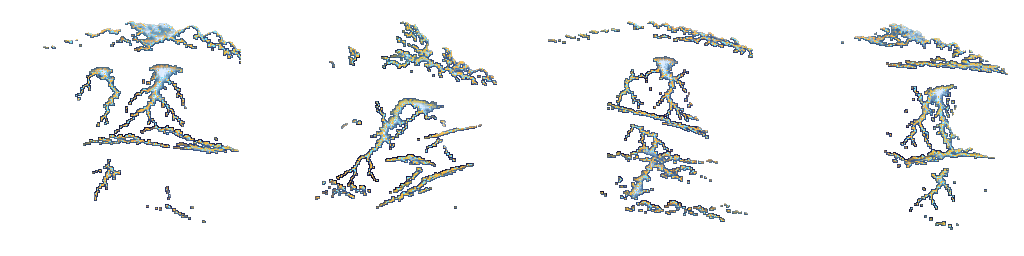
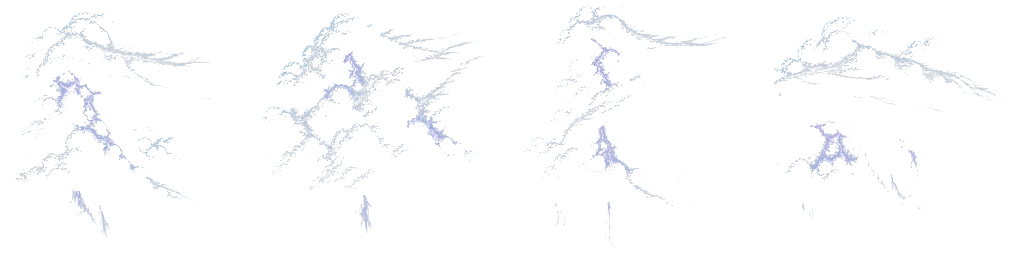
Storm landmarks: the turbine raft is repainted with bare hubs and three painted rotors that spin (about 100 deg/s, wind-swelled); the relay dish is a separate painted dish that turns on its mast (72 deg/s, |cos| foreshortening); tower lightning layer rebuilt from the new tower art; StormLifeTest cov

diff --git a/Pause/Assets/Scripts/Worlds/Backdrop/StormLife.cs b/Pause/Assets/Scripts/Worlds/Backdrop/StormLife.cs
@@ -20,8 +20,17 @@ public static class StormLifeTuning
     public const int Rotors = 3;
     // The three fans of "turbine_raft_00", left to right: hub centre on the 256 cell (px from the top-left) and speed in deg/s
     // (negative = clockwise on screen). Real turbines are slow; this is a readable lazy spin.
-    public static readonly Vector2[] FanHubs = { new Vector2(99.5f, 94.5f), new Vector2(150.5f, 120.5f), new Vector2(206.5f, 80.5f) };
-    public static readonly float[] FanSpeeds = { -52f, 71f, -63f };
+    // 2026-10 restyle: the raft is repainted with BARE hubs and the fans are three painted three-blade rotors; hubs measured on the new raft,
+    // FanScales = each fan's size relative to its 119 px rotor cell. A steady, clearly visible spin (about 0.3 turns a second, wind-swelled);
+    // StormLifeTest keeps every speed inside 15..140 deg/s.
+    public static readonly Vector2[] FanHubs = { new Vector2(148.3f, 49.8f), new Vector2(80.7f, 96.8f), new Vector2(205.6f, 125.6f) };
+    public static readonly float[] FanScales = { .589f, .442f, .442f };
+    public static readonly float[] FanSpeeds = { -100f, 112f, -106f };
+    // The relay dish turns on its mast: the painted dish ("dish_00" in the rotors atlas, pivot = the cell centre) sits on the mast's bare
+    // mount and turns about the vertical axis (a steady DishSpeed deg/s: its width follows |cos|, mirrored past the edge-on moment).
+    public const string DishPiece = "relay_dish_00";
+    public static readonly Vector2 DishMount = new Vector2(123.1f, 9.6f);      // on the 256 cell, px from the top-left
+    public static float DishScale = .7f, DishSpeed = 72f, DishMinWidth = .16f;
     public static float FanSwell = .22f, FanSwellHz = .11f;       // the wind: speed x (1 + swell sin)
     public const string TurbinePiece = "turbine_raft_00";
 
@@ -42,6 +51,8 @@ public sealed class StormLife
     sealed class Extras
     {
         public SpriteRenderer[] rotors;
+        public SpriteRenderer dish;        // the relay dish piece's turning dish
+        public float dishAngle;
         public SpriteRenderer heart;       // towers: the glowing core
         public SpriteRenderer tip;
         public SpriteRenderer bolts;       // towers: the lightning layer over the cloud
@@ -56,7 +67,7 @@ public sealed class StormLife
 
     readonly BackdropPool ground;
     readonly Extras[] extras;
-    readonly Sprite turbine, glowSprite;
+    readonly Sprite turbine, glowSprite, relay, dishArt;
     readonly Dictionary<Sprite, Sprite> boltOf = new Dictionary<Sprite, Sprite>();
     float lastStrike = -9f;
     readonly System.Random rng;
@@ -66,8 +77,10 @@ public sealed class StormLife
     // Preview only (before / after clips): a static frame of the old look, fans parked, no bob, breathing or glow.
     public static bool Still;
 
-    public StormLife(BackdropPool ground, BackdropAtlas rotorArt, Sprite turbine, Sprite glowSprite, int seed, BackdropAtlas landmarkArt = null, BackdropAtlas boltArt = null)
+    public StormLife(BackdropPool ground, BackdropAtlas rotorArt, Sprite turbine, Sprite glowSprite, int seed, BackdropAtlas landmarkArt = null, BackdropAtlas boltArt = null, Sprite relayPiece = null)
     {
+        relay = relayPiece;
+        dishArt = rotorArt != null ? rotorArt.Get("dish_00") : null;
         if (landmarkArt != null && boltArt != null)
             for (int k = 0; k < StormTuning.Towers.Length; k++)
             {
@@ -100,12 +113,24 @@ public sealed class StormLife
                     go.transform.SetParent(p.body, false);
                     var hub = StormLifeTuning.FanHubs[k];
                     go.transform.localPosition = new Vector3((hub.x - 128f) / ppu, (128f - hub.y) / ppu, 0f);
+                    go.transform.localScale = new Vector3(StormLifeTuning.FanScales[k], StormLifeTuning.FanScales[k], 1f);
                     var sr = go.AddComponent<SpriteRenderer>();
                     sr.sprite = rs[k];
                     sr.sortingOrder = order;
                     sr.enabled = false;
                     e.rotors[k] = sr;
                 }
+            }
+            if (dishArt != null && relay != null)
+            {
+                var go = new GameObject("dish");
+                go.transform.SetParent(p.body, false);
+                go.transform.localPosition = new Vector3((StormLifeTuning.DishMount.x - 128f) / ppu, (128f - StormLifeTuning.DishMount.y) / ppu, 0f);
+                var sr = go.AddComponent<SpriteRenderer>();
+                sr.sprite = dishArt;
+                sr.sortingOrder = order;
+                sr.enabled = false;
+                e.dish = sr;
             }
             if (boltOf.Count > 0)
             {
@@ -138,6 +163,9 @@ public sealed class StormLife
     }
 
     // ---- reads for tests ----
+    public bool IsDish(BackdropPiece p) { return relay != null && p.sr.sprite == relay; }
+    public float DishAngle(BackdropPiece p) { return extras[ground.items.IndexOf(p)].dishAngle; }
+    public float DishWidth(BackdropPiece p) { var e = extras[ground.items.IndexOf(p)]; return e.dish != null && e.dish.enabled ? e.dish.transform.localScale.x : 0f; }
     public bool IsFan(BackdropPiece p) { return turbine != null && p.sr.sprite == turbine; }
     public float[] RotorAngles(BackdropPiece p) { return extras[ground.items.IndexOf(p)].angle; }
     public bool RotorsShown(BackdropPiece p)
@@ -195,6 +223,12 @@ public sealed class StormLife
                 e.rotors[r].transform.localRotation = Quaternion.identity;
                 e.rotors[r].color = new Color(1f, 1f, 1f, a);
             }
+        if (e.dish != null)
+        {
+            e.dish.enabled = IsDish(p);
+            e.dish.transform.localScale = new Vector3(StormLifeTuning.DishScale, StormLifeTuning.DishScale, 1f);
+            e.dish.color = new Color(1f, 1f, 1f, a);
+        }
         if (e.heart != null) { e.heart.enabled = false; e.tip.enabled = false; }
         if (e.bolts != null) e.bolts.enabled = false;
     }
@@ -247,6 +281,20 @@ public sealed class StormLife
                     if (e.angle[r] > 3600f || e.angle[r] < -3600f) e.angle[r] %= 360f;
                     sr.transform.localRotation = Quaternion.Euler(0f, 0f, e.angle[r]);
                     sr.color = new Color(1f, 1f, 1f, a);
+                }
+            }
+            if (e.dish != null)
+            {
+                bool relayPiece = IsDish(p);
+                if (e.dish.enabled != relayPiece) e.dish.enabled = relayPiece;
+                if (relayPiece)
+                {
+                    e.dishAngle += StormLifeTuning.DishSpeed * dt;
+                    if (e.dishAngle > 3600f) e.dishAngle %= 360f;
+                    float c = Mathf.Cos(e.dishAngle * Mathf.Deg2Rad);
+                    float w = Mathf.Sign(c == 0f ? 1f : c) * Mathf.Max(StormLifeTuning.DishMinWidth, Mathf.Abs(c));
+                    e.dish.transform.localScale = new Vector3(w * StormLifeTuning.DishScale, StormLifeTuning.DishScale, 1f);
+                    e.dish.color = new Color(1f, 1f, 1f, a);
                 }
             }
             float strike = 0f;

diff --git a/Pause/Assets/Art/Worlds/Storm/backdrop_v4~/restyle_landmarks/src~/build_lm_haz.py b/Pause/Assets/Art/Worlds/Storm/backdrop_v4~/restyle_landmarks/src~/build_lm_haz.py
@@ -67,6 +67,12 @@ def despeckle(c, k=6, keep=.04):
     out = c.copy(); out[..., 3] *= grown
     return out
 
+META = {}
+
+def cell_xy(n, sx, sy):
+    """a point of the source painting (px) -> the landmark cell (px from its top-left)."""
+    m = META[n]; return ((sx - m["x0"]) * m["scale"] + m["ox"], (sy - m["y0"]) * m["scale"] + m["oy"])
+
 def fill_landmarks():
     j = json.load(open(DST / "landmarks.json")); sheet = Image.open(DST / "landmarks.png").convert("RGBA"); H = sheet.height
     by = {s["n"]: s for s in j["sprites"]}
@@ -78,6 +84,8 @@ def fill_landmarks():
         if not (SRC / (sname + ".png")).exists():
             print("missing", sname); continue
         for n, c in zip(names, [despeckle(x) for x in cells(load(sname), 2, 2)]):
+            if n == "turbine_raft_00" and (SRC / "tr_raft.png").exists(): c = despeckle(load("tr_raft"))      # bare hubs: the fans are the rotors atlas
+            if n == "relay_dish_00" and (SRC / "dish_mast.png").exists(): c = despeckle(load("dish_mast"))   # bare mount: the dish is its own turning sprite
             s = by[n]; box = (s["x"], H - s["y"] - s["h"], s["x"] + s["w"], H - s["y"])
             sheet.paste((0, 0, 0, 0), box)
             if n.startswith("spire_"):
@@ -87,7 +95,10 @@ def fill_landmarks():
                 t = c[ty:y1, x0:x1]; im = scaled(t, sc); left = 128 - round((tx - x0) * sc)
                 im = im.crop((max(0, -left), 0, min(im.width, s["w"] - left), im.height))
                 cell = Image.new("RGBA", (s["w"], s["h"])); cell.alpha_composite(im, (max(0, left), 40)); sheet.alpha_composite(cell, box[:2]); continue
-            im = fit(c, s["w"], s["h"]); put_center(sheet, im, s["x"] + s["w"] / 2, H - s["y"] - s["h"] / 2)
+            y0, y1, x0, x1 = bbox(c); sc = min(s["w"] * .95 / (x1 - x0), s["h"] * .95 / (y1 - y0)); im = fit(c, s["w"], s["h"])
+            ox = (s["w"] - im.width) / 2; oy = (s["h"] - im.height) / 2     # where the cropped, scaled art sits in the 256 cell
+            META[n] = {"scale": sc, "x0": int(x0), "y0": int(y0), "ox": ox, "oy": oy}
+            put_center(sheet, im, s["x"] + s["w"] / 2, H - s["y"] - s["h"] / 2)
     sheet.save(DST / "landmarks.png")
 
 def min_cut(err):
@@ -134,5 +145,51 @@ def fill_hazard():
             arr = np.roll(tile, round((col - 2) * 256), axis=1).copy(); arr[..., 3] *= .55; put(2, col, to_img(arr))
     sheet.save(DST / "wx_hazard.png")
 
+HUBS_627 = [(367, 122), (203, 236), (506, 306)]        # hub caps measured on the 627 px preview of tr_raft.png (x2 = source px)
+HUB_R_627 = [80, 60, 60]                               # blade tip radius per fan on the same preview
+
+def fill_rotors_dish():
+    """rotors.png: three fan rotors (119 px cells) + the relay dish (238 px cell, its pivot = the cell centre). Writes tuning.json."""
+    out = {}
+    if (SRC / "tr_rotors.png").exists():
+        sheet = Image.new("RGBA", (357 + 238, 238))
+        for k, c in enumerate(cells(load("tr_rotors"), 2, 2)[:3]):
+            al = c[..., 3]; ys, xs = np.mgrid[0:al.shape[0], 0:al.shape[1]]; w = al * (al > .06)
+            cy = (ys * w).sum() / w.sum(); cx = (xs * w).sum() / w.sum()        # three-fold symmetric: the mass centroid is the hub
+            rad = float(np.sqrt((((ys - cy) ** 2 + (xs - cx) ** 2) * (al > .3))).max())
+            s = 56.0 / rad
+            im = to_img(c).resize((round(c.shape[1] * s), round(c.shape[0] * s)), Image.LANCZOS)
+            cell = Image.new("RGBA", (119, 119)); cell.alpha_composite(im, (round(59.5 - cx * s), round(59.5 - cy * s)))
+            sheet.alpha_composite(cell, (k * 119, 238 - 119))
+        out["rotor_cell_radius"] = 56.0
+    if (SRC / "dish_dish.png").exists():
+        a = despeckle(load("dish_dish")); y0, y1, x0, x1 = bbox(a); t = a[y0:y1, x0:x1]
+        s = 96.0 / max(t.shape[0], t.shape[1]); im = to_img(t).resize((round(t.shape[1] * s), round(t.shape[0] * s)), Image.LANCZOS)
+        cell = Image.new("RGBA", (238, 238)); cell.alpha_composite(im, (119 - im.width // 2, 119 - im.height))     # bottom centre = the pivot
+        sheet.alpha_composite(cell, (357, 0))
+    sheet.save(DST / "rotors.png")
+    j = {"sprites": [{"n": "rotor_0%d" % k, "x": k * 119, "y": 0, "w": 119, "h": 119} for k in range(3)] + [{"n": "dish_00", "x": 357, "y": 0, "w": 238, "h": 238}]}
+    json.dump(j, open(DST / "rotors.json", "w"))
+    if "turbine_raft_00" in META:
+        hubs = [cell_xy("turbine_raft_00", 2 * x, 2 * y) for x, y in HUBS_627]
+        out["FanHubs"] = [[round(h[0], 1), round(h[1], 1)] for h in hubs]
+        sc = META["turbine_raft_00"]["scale"]
+        out["FanScales"] = [round(2 * r * sc / 56.0, 3) for r in HUB_R_627]
+    if "relay_dish_00" in META and (SRC / "dish_mast.png").exists():
+        a = despeckle(load("dish_mast")); core = np.where(a[..., 3] > .5); ty = core[0].min(); tx = int(np.median(core[1][core[0] < ty + 8]))
+        out["DishMount"] = [round(v, 1) for v in cell_xy("relay_dish_00", tx, ty + 14)]
+    json.dump(out, open(SRC / "tuning.json", "w"), indent=1); print(out)
+
+def fill_thunder():
+    """thunder.png: each tower's lightning layer = the bright, bluish lightning pixels of the new tower art (the strike flash re-draws them on top)."""
+    lj = json.load(open(DST / "landmarks.json")); lm = np.asarray(Image.open(DST / "landmarks.png").convert("RGBA")).astype(np.float32) / 255; H = lm.shape[0]
+    by = {s["n"]: s for s in lj["sprites"]}; sheet = np.zeros((256, 1024, 4), np.float32)
+    for k in range(4):
+        s = by["anvil_tower_0%d" % k]; y = H - s["y"] - s["h"]; c = lm[y:y + 256, s["x"]:s["x"] + 256].copy()
+        v = c[..., :3].max(-1); b = c[..., 2] - c[..., 0]
+        m = np.clip((v - .62) / .25, 0, 1) * np.clip((b + .02) / .1, 0, 1)
+        c[..., 3] *= m; sheet[:, k * 256:(k + 1) * 256] = c
+    to_img(sheet).save(DST / "thunder.png")
+
 if __name__ == "__main__":
-    fill_landmarks(); fill_hazard()
+    fill_landmarks(); fill_hazard(); fill_rotors_dish(); fill_thunder()

diff --git a/Pause/Assets/Editor/Tests/StormLifeTest.cs b/Pause/Assets/Editor/Tests/StormLifeTest.cs
@@ -88,6 +88,18 @@ public static class StormLifeTest
         float before = ang[0];
         wb.Step(0f);
         Check("paused (dt 0): the fans hold still", ang[0] == before);
+
+        // the relay dish turns on its mast (steady loop, foreshortened by |cos|, frozen with the world clock)
+        var dish = d.Showcase(StormLifeTuning.DishPiece, 1.7f, 0f, 0f);
+        for (int i = 0; i < 5; i++) wb.Step(Dt);
+        Check("the relay dish piece shows its turning dish", dish != null && d.Life.IsDish(dish) && d.Life.DishWidth(dish) != 0f);
+        float d0 = d.Life.DishAngle(dish), wMin = 9f, wMax = -9f;
+        for (int i = 0; i < 150; i++) { wb.Step(Dt); float w = d.Life.DishWidth(dish) / StormLifeTuning.DishScale; wMin = Mathf.Min(wMin, w); wMax = Mathf.Max(wMax, w); }
+        Check("in 2.5 s the dish turned about " + (StormLifeTuning.DishSpeed * 2.5f).ToString("0") + " deg and swept through edge-on and mirrored (width " + wMin.ToString("F2") + " .. " + wMax.ToString("F2") + ")",
+              Mathf.Abs(d.Life.DishAngle(dish) - d0 - StormLifeTuning.DishSpeed * 2.5f) < 8f && wMin < 0f && wMax > .9f);
+        float da = d.Life.DishAngle(dish);
+        wb.Step(0f);
+        Check("paused (dt 0): the dish holds still", d.Life.DishAngle(dish) == da);
         Object.DestroyImmediate(WorldBackdrop.Instance.gameObject);
     }
 

diff --git a/Pause/Assets/Editor/Tools/Previews/StormBackdropPreview.cs b/Pause/Assets/Editor/Tools/Previews/StormBackdropPreview.cs
@@ -112,12 +112,14 @@ public static class StormBackdropPreview
             d.Showcase(StormLifeTuning.TurbinePiece, 1.9f, -.9f, 1.5f);
             d.Showcase("anvil_tower_00", 1.9f, .95f, .3f, false, true);
             d.Showcase("spire_00", 1.7f, -.95f, -1.0f, false, true);
+            d.Showcase(StormLifeTuning.DishPiece, 1.7f, .95f, 1.6f, false, true);
             d.Showcase("skyhook_00", 1.7f, .9f, -1.7f, true, true);
             string sub = Path.Combine(dir, still ? "before" : "after");
             Directory.CreateDirectory(sub);
-            for (int f = 0; f < 120; f++)
+            int frames = int.TryParse(System.Environment.GetEnvironmentVariable("STORM_LIFE_FRAMES"), out var nf) ? nf : 120, stepsPer = int.TryParse(System.Environment.GetEnvironmentVariable("STORM_LIFE_STEPS"), out var ns) ? ns : 4;
+            for (int f = 0; f < frames; f++)
             {
-                for (int s = 0; s < 4; s++) wb.Step(Dt);
+                for (int s = 0; s < stepsPer; s++) wb.Step(Dt);
                 Capture(cam, Path.Combine(sub, f.ToString("000") + ".png"), 2);
             }
         }

diff --git a/Pause/Assets/Scripts/Worlds/Backdrop/StormBackdrop.cs b/Pause/Assets/Scripts/Worlds/Backdrop/StormBackdrop.cs
@@ -412,7 +412,7 @@ public class StormDirector : PlanetDirector
             mists[i].enabled = false;
         }
         life = new StormLife(ground, set.Atlas("rotors"), landmarkArt.Get(StormLifeTuning.TurbinePiece),
-                             flashArt.Length > 0 ? flashArt[0] : null, 4242, landmarkArt, set.Atlas(StormLifeTuning.BoltAtlas));   // own seed: never draws from the director's rng (that would reshuffle the whole backdrop)
+                             flashArt.Length > 0 ? flashArt[0] : null, 4242, landmarkArt, set.Atlas(StormLifeTuning.BoltAtlas), landmarkArt.Get(StormLifeTuning.DishPiece));   // own seed: never draws from the director's rng (that would reshuffle the whole backdrop)
         glow = Pool("glow", 4);
         bolts = Pool("bolts", 4);
         mist = Pool("mist", 3);

diff --git a/Pause/Assets/Art/Worlds/Storm/backdrop_v4~/restyle_landmarks/src~/prompt_tr_rotors.md b/Pause/Assets/Art/Worlds/Storm/backdrop_v4~/restyle_landmarks/src~/prompt_tr_rotors.md
@@ -1,0 +1,9 @@
+You are making ONE game-art sheet for "Pause", a vertical phone-portrait 2D shooter, STORM world (a gas-giant thunderstorm flown at atmosphere level, looking down from above). Use your built-in image generation tool for the painted content. Paint ONE SQUARE image as large as the tool allows (about 1254x1254) and save it to the exact output path at the end. Do not edit any other file, do not commit, do not delete anything.
+
+STYLE (important): real, moody, physically believable, painterly hi-res pixel-art-grade with true texture, believable materials, local light from real sources, atmospheric depth. Reference images: s1_supercell (the approved cloud look), new_storm_weather (the approved new weather sprite look), ember_landmarks and verdant_landmarks (the approved landmark style bar from other worlds: believable materials and lighting, no outlines). The reference "OLD_*_do_not_copy" is the look being REPLACED (flat, symmetrical, lumpy navy blobs, cartoon silhouettes, soft outlines): do NOT copy it. Palette: cool desaturated steel-blue, slate, teal-grey, dark graphite metal, white, with pale violet-white lightning glow. NO orange, gold, amber, brass, brown rim light. NO pink or magenta, no red, no green. No outlines or borders.
+
+LAYOUT RULE: the image is a grid; each cell contains ONE separate element, centred in its cell with at least 8 percent empty margin on all sides, nothing touching the cell borders, no grid lines, no labels, no text, no frames, no ground plane, no cast background. Background: genuinely TRANSPARENT (real alpha), nothing behind the elements. Every element in a sheet must have a clearly DIFFERENT silhouette, size and design: never repeat a shape.
+
+ROTOR SHEET (2x2 grid, 4 cells): three DIFFERENT wind-turbine ROTORS seen from the front, each with exactly THREE slim tapered blades at exactly 120 degrees apart around a round hub that sits at the EXACT CENTRE of its cell (three-fold symmetric about the hub so it can be spun around the hub), weathered pale steel-grey fibreglass with subtle wear, soft cool lighting, slightly different blade shapes and wear per rotor, blade length about 85 percent of half the cell. The fourth cell: leave empty. No tower, no nacelle, only hub and three blades. Do not draw motion blur.
+
+Output: write the final PNG to /Users/sina/Developer/Pause/.claude/ws-storm-hazlm/Pause/Assets/Art/Worlds/Storm/backdrop_v4~/restyle_landmarks/src~/tr_rotors.png

diff --git a/Pause/Assets/Art/Worlds/Storm/backdrop_v4~/restyle_landmarks/src~/prompt_tr_raft.md b/Pause/Assets/Art/Worlds/Storm/backdrop_v4~/restyle_landmarks/src~/prompt_tr_raft.md
@@ -1,0 +1,9 @@
+You are making ONE game-art sheet for "Pause", a vertical phone-portrait 2D shooter, STORM world (a gas-giant thunderstorm flown at atmosphere level, looking down from above). Use your built-in image generation tool for the painted content. Paint ONE SQUARE image as large as the tool allows (about 1254x1254) and save it to the exact output path at the end. Do not edit any other file, do not commit, do not delete anything.
+
+STYLE (important): real, moody, physically believable, painterly hi-res pixel-art-grade with true texture, believable materials, local light from real sources, atmospheric depth. Reference images: s1_supercell (the approved cloud look), new_storm_weather (the approved new weather sprite look), ember_landmarks and verdant_landmarks (the approved landmark style bar from other worlds: believable materials and lighting, no outlines). The reference "OLD_*_do_not_copy" is the look being REPLACED (flat, symmetrical, lumpy navy blobs, cartoon silhouettes, soft outlines): do NOT copy it. Palette: cool desaturated steel-blue, slate, teal-grey, dark graphite metal, white, with pale violet-white lightning glow. NO orange, gold, amber, brass, brown rim light. NO pink or magenta, no red, no green. No outlines or borders.
+
+LAYOUT RULE: the image is a grid; each cell contains ONE separate element, centred in its cell with at least 8 percent empty margin on all sides, nothing touching the cell borders, no grid lines, no labels, no text, no frames, no ground plane, no cast background. Background: genuinely TRANSPARENT (real alpha), nothing behind the elements. Every element in a sheet must have a clearly DIFFERENT silhouette, size and design: never repeat a shape.
+
+SINGLE ELEMENT (centred, filling about 90 percent of the square): a floating TURBINE RAFT in the same aerial three-quarter view and weathered cool-steel style as the reference: a floating steel raft carrying THREE tall wind-turbine towers of different heights (one tall centre, two shorter), each topped by a nacelle and a bare round HUB cap pointing at the viewer. IMPORTANT: NO blades, NO rotors, NO propeller at all on any tower: only the bare hubs (the blades will be added separately and spin). Buoyancy tanks under the raft, cool white lamps, cables.
+
+Output: write the final PNG to /Users/sina/Developer/Pause/.claude/ws-storm-hazlm/Pause/Assets/Art/Worlds/Storm/backdrop_v4~/restyle_landmarks/src~/tr_raft.png

diff --git a/Pause/Assets/Art/Worlds/Storm/backdrop_v4~/restyle_landmarks/src~/prompt_dish_dish.md b/Pause/Assets/Art/Worlds/Storm/backdrop_v4~/restyle_landmarks/src~/prompt_dish_dish.md
@@ -1,0 +1,9 @@
+You are making ONE game-art sheet for "Pause", a vertical phone-portrait 2D shooter, STORM world (a gas-giant thunderstorm flown at atmosphere level, looking down from above). Use your built-in image generation tool for the painted content. Paint ONE SQUARE image as large as the tool allows (about 1254x1254) and save it to the exact output path at the end. Do not edit any other file, do not commit, do not delete anything.
+
+STYLE (important): real, moody, physically believable, painterly hi-res pixel-art-grade with true texture, believable materials, local light from real sources, atmospheric depth. Reference images: s1_supercell (the approved cloud look), new_storm_weather (the approved new weather sprite look), ember_landmarks and verdant_landmarks (the approved landmark style bar from other worlds: believable materials and lighting, no outlines). The reference "OLD_*_do_not_copy" is the look being REPLACED (flat, symmetrical, lumpy navy blobs, cartoon silhouettes, soft outlines): do NOT copy it. Palette: cool desaturated steel-blue, slate, teal-grey, dark graphite metal, white, with pale violet-white lightning glow. NO orange, gold, amber, brass, brown rim light. NO pink or magenta, no red, no green. No outlines or borders.
+
+LAYOUT RULE: the image is a grid; each cell contains ONE separate element, centred in its cell with at least 8 percent empty margin on all sides, nothing touching the cell borders, no grid lines, no labels, no text, no frames, no ground plane, no cast background. Background: genuinely TRANSPARENT (real alpha), nothing behind the elements. Every element in a sheet must have a clearly DIFFERENT silhouette, size and design: never repeat a shape.
+
+SINGLE ELEMENT (centred, filling about 70 percent of the square): a large parabolic RELAY / RADAR DISH antenna with its short feed arm and a small yoke base, seen from the front at a slight angle from above, perfectly SYMMETRICAL left to right about the vertical centre line of the image (so it can be squashed horizontally to fake turning), weathered pale steel with panel seams and subtle wear, a small pale-violet status lamp on the feed. The dish's vertical pivot (where it sits on its mast) is at the bottom centre of the element.
+
+Output: write the final PNG to /Users/sina/Developer/Pause/.claude/ws-storm-hazlm/Pause/Assets/Art/Worlds/Storm/backdrop_v4~/restyle_landmarks/src~/dish_dish.png

diff --git a/Pause/Assets/Art/Worlds/Storm/backdrop_v4~/restyle_landmarks/src~/prompt_dish_mast.md b/Pause/Assets/Art/Worlds/Storm/backdrop_v4~/restyle_landmarks/src~/prompt_dish_mast.md
@@ -1,0 +1,9 @@
+You are making ONE game-art sheet for "Pause", a vertical phone-portrait 2D shooter, STORM world (a gas-giant thunderstorm flown at atmosphere level, looking down from above). Use your built-in image generation tool for the painted content. Paint ONE SQUARE image as large as the tool allows (about 1254x1254) and save it to the exact output path at the end. Do not edit any other file, do not commit, do not delete anything.
+
+STYLE (important): real, moody, physically believable, painterly hi-res pixel-art-grade with true texture, believable materials, local light from real sources, atmospheric depth. Reference images: s1_supercell (the approved cloud look), new_storm_weather (the approved new weather sprite look), ember_landmarks and verdant_landmarks (the approved landmark style bar from other worlds: believable materials and lighting, no outlines). The reference "OLD_*_do_not_copy" is the look being REPLACED (flat, symmetrical, lumpy navy blobs, cartoon silhouettes, soft outlines): do NOT copy it. Palette: cool desaturated steel-blue, slate, teal-grey, dark graphite metal, white, with pale violet-white lightning glow. NO orange, gold, amber, brass, brown rim light. NO pink or magenta, no red, no green. No outlines or borders.
+
+LAYOUT RULE: the image is a grid; each cell contains ONE separate element, centred in its cell with at least 8 percent empty margin on all sides, nothing touching the cell borders, no grid lines, no labels, no text, no frames, no ground plane, no cast background. Background: genuinely TRANSPARENT (real alpha), nothing behind the elements. Every element in a sheet must have a clearly DIFFERENT silhouette, size and design: never repeat a shape.
+
+SINGLE ELEMENT (centred, filling about 90 percent of the square): a floating RELAY STATION: a small floating steel platform with buoyancy tanks and a tall lattice mast, with a bare empty yoke mount (a short vertical pivot post with a round bearing cap) at the very top of the mast, exactly on the vertical centre line of the image. IMPORTANT: NO dish, NO antenna on the mast: only the empty mount (the dish will be added separately and will turn). Cool white lamps.
+
+Output: write the final PNG to /Users/sina/Developer/Pause/.claude/ws-storm-hazlm/Pause/Assets/Art/Worlds/Storm/backdrop_v4~/restyle_landmarks/src~/dish_mast.png
